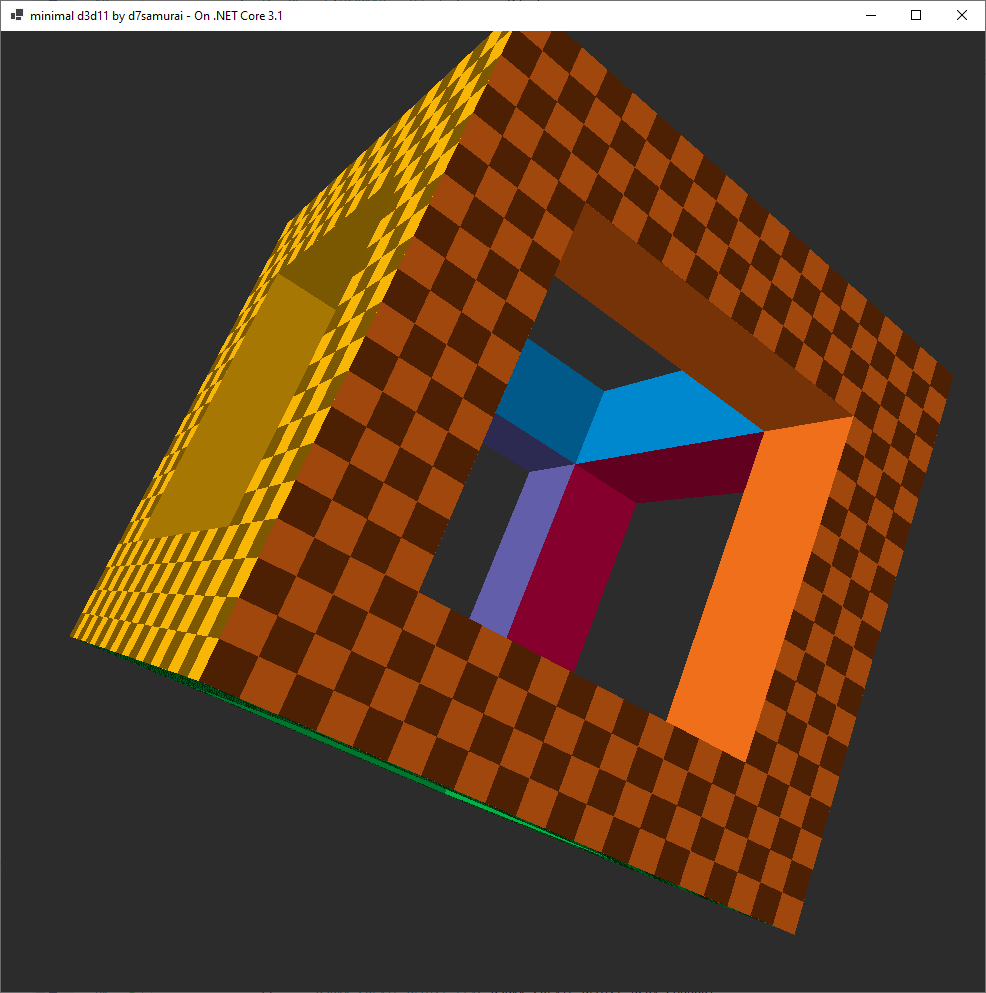
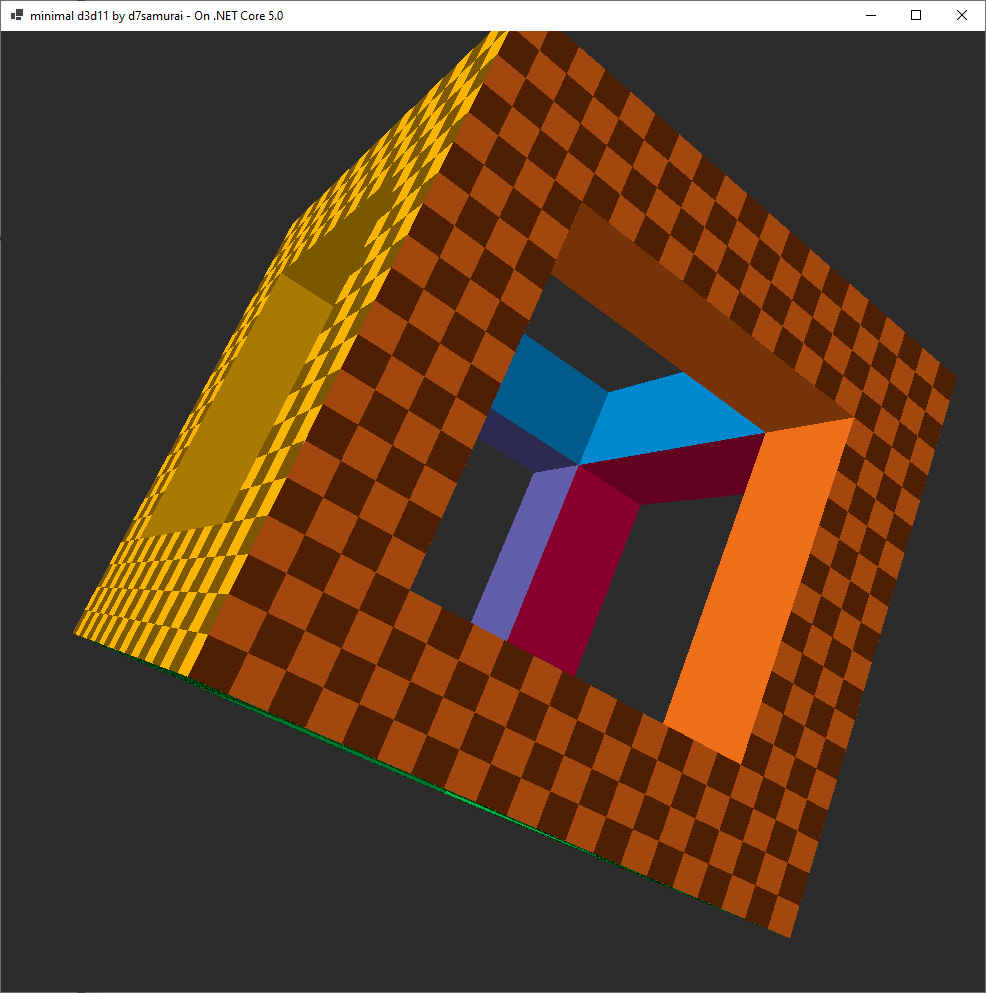
Updated .NET Core 3.1 to .NET 5.

diff --git a/DirectN/DirectN.MinimalD3D11/Properties/AssemblyInfo.cs b/DirectN/DirectN.MinimalD3D11/Properties/AssemblyInfo.cs
@@ -1,0 +1,21 @@
+using System.Reflection;
+using System.Runtime.InteropServices;
+
+#if DEBUG
+[assembly: AssemblyTitle("DirectN.MinimalD3D11 - Debug")]
+[assembly: AssemblyConfiguration("DEBUG")]
+#else
+[assembly: AssemblyTitle("DirectN.MinimalD3D11 - Release")]
+[assembly: AssemblyConfiguration("RELEASE")]
+#endif
+[assembly: AssemblyCompany("Simon Mourier")]
+[assembly: AssemblyProduct("DirectN")]
+[assembly: AssemblyDescription("Interop Code for .NET : DXGI, WIC, DirectX 9 to 12, Direct2D, Direct Write, Direct Composition, Media Foundation, WASAPI, CodecAPI, GDI, Spatial Audio, DVD, Windows Media Player, UWP DXInterop, etc.")]
+[assembly: AssemblyCopyright("Copyright © 2017-2021 Simon Mourier. All rights reserved. Original code by d7samurai.")]
+[assembly: AssemblyCulture("")]
+[assembly: ComVisible(false)]
+[assembly: Guid("3a848cdf-7b72-49de-92f7-30b640369d75")]
+
+[assembly: AssemblyVersion("1.0.0.0")]
+[assembly: AssemblyFileVersion("1.9.0.2")]
+[assembly: AssemblyInformationalVersion("1.9.0.2")]

diff --git a/DirectN/DirectN/Properties/AssemblyInfo.cs b/DirectN/DirectN/Properties/AssemblyInfo.cs
@@ -3,13 +3,13 @@ using System.Runtime.InteropServices;
 
 [assembly: AssemblyTitle("DirectN")]
 [assembly: AssemblyProduct("DirectN")]
-[assembly: AssemblyCopyright("Copyright © 2017-2020 Simon Mourier. All rights reserved.")]
+[assembly: AssemblyCopyright("Copyright © 2017-2021 Simon Mourier. All rights reserved.")]
 [assembly: AssemblyCulture("")]
 [assembly: ComVisible(false)]
 [assembly: Guid("576ef3e5-0414-4891-8dce-f0b27074c069")]
 [assembly: AssemblyVersion("1.0.0.0")]
-[assembly: AssemblyFileVersion("1.9.0.1")]
-[assembly: AssemblyInformationalVersion("1.9.0.1")]
+[assembly: AssemblyFileVersion("1.9.0.2")]
+[assembly: AssemblyInformationalVersion("1.9.0.2")]
 [assembly: AssemblyDescription("Interop Code for .NET : DXGI, WIC, DirectX 9 to 12, Direct2D, Direct Write, Direct Composition, Media Foundation, WASAPI, CodecAPI, GDI, Spatial Audio, DVD, Windows Media Player, UWP DXInterop, etc.")]
 [assembly: AssemblyCompany("Simon Mourier")]
 

diff --git a/DirectN/DirectN.MinimalD3D11/Main.cs b/DirectN/DirectN.MinimalD3D11/Main.cs
@@ -35,7 +35,7 @@ namespace DirectN.MinimalD3D11
 
         public Main()
         {
-            Text = "minimal d3d11 by d7samurai - On .NET Core 3.1";
+            Text = "minimal d3d11 by d7samurai - On .NET Core 5.0";
             int size = 1000;
             Size = new Size(size, size);
         }
